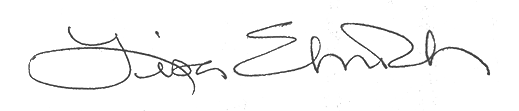
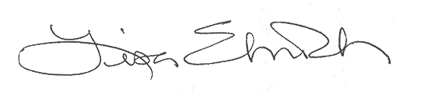
remove max ht 100v

Changed region(s): [[0.0306, 0.1935, 0.9482, 0.8602], [0.4894, 0.1935, 0.5812, 0.2796], [0.2753, 0.2796, 0.3059, 0.3656]]

diff --git a/LisaEhrich/LisaEhrich/css/style.css b/LisaEhrich/LisaEhrich/css/style.css
@@ -433,13 +433,20 @@ input::-webkit-input-placeholder, input::-moz-placeholder, input:-moz-placeholde
 
 .preload.version2 {
     background: #8a868c;
-    /* background: rgba(77, 77, 78, 0.3);*/
+    background: #989aaa;
 }
 .preload.version2 .load-wave { position: absolute; width: 0%; height: 10px; top: 50%; left: 0px; animation: wave .7s infinite alternate ease-in-out; }
 /*.preload.version2 .load-wave:before { content: ''; position: absolute; left: 0px; bottom: 0px; height: 8px; width: 100%; background: url(../img/word_wave.png) repeat-x; }
 */
-@keyframes wave { 0% { width: 0; }
-  100% { width: 100%; } }
+@keyframes wave {
+    0% {
+        width: 0;
+    }
+
+    100% {
+        width: 100%;
+    }
+}
 @-webkit-keyframes wave { 0% { width: 0; }
   100% { width: 100%; } }
 @-moz-keyframes wave { 0% { width: 0; }
@@ -629,7 +636,7 @@ input, textarea { font-family: 'Montserrat', sans-serif; }
     height: 100vmin;
     min-height: 650px;
     overflow-y: auto;
-     max-height: 100vh;/*tosca*/
+     /*max-height: 100vh;tosca*/
 }
 .content-bg { padding: 160px 0px 180px; position: relative; }
 
@@ -3737,7 +3744,7 @@ body.overflowh { overflow: hidden; }
 .full-about-item p { font-size: 20px; line-height: 32px; font-weight: 400; color: #fffefe; padding-bottom: 30px; font-family: 'Quicksand', sans-serif }
 
 .signature { position: relative; float: right; }
-.signature img { margin-bottom: 15px; }
+.signature img { margin-bottom: 25px; }
 .signature span { display: block; font-size: 16px; line-height: 16px; text-transform: uppercase; color: #fffefe; }
 
 .full-contact-item { position: relative; text-align: center; }
@@ -3782,8 +3789,8 @@ body.overflowh { overflow: hidden; }
   .right-navigation .copy { bottom: 30px; }
   .full-project-item .image { height: 350px; }
   .open-all-project { top: 15px; }
-  .full-about-item p { font-size: 22px; line-height: 32px; padding-bottom: 20px; }
-  .signature img { max-width: 150px; }
+  .full-about-item p { font-size: 18px; line-height: 26px; padding-bottom: 18px; }
+  .signature img { max-width: 300px; }
   .full-contact-item .title-h2 { font-size: 60px; line-height: 70px; }
   .full-contact-item p { font-size: 20px; line-height: 32px; }
   .contact-footer-link { bottom: 30px; } }

diff --git a/LisaEhrich/LisaEhrich/index.html b/LisaEhrich/LisaEhrich/index.html
@@ -16,11 +16,11 @@
   
 <body class="onepagev6">
     <div class="preload version2">
-    
+        <div class="load-wave"></div>
     </div>
     <header class="header right-style">
         <a href="index.html" class="logo-left">
- <img src="img/LE/LisaEhrich-01.png" alt="Lisa Ehrich ~ Ceramic Artist logo" /></a>
+ <img src="img/LE/LisaEhrich.png" alt="Lisa Ehrich ~ Ceramic Artist logo" /></a>
         <div class="burger vertical-align"><i></i></div>
         <div class="header-wrap">
             <nav class="right-navigation">
@@ -402,7 +402,7 @@
                 I move from throwing to handbuilding seeking the process that best actualizes the ideas that emerge.  My surfaces are intended to reveal the form, to feel like the skin of an object, appearing as a natural consequence of its being. I focus on atmospheric firings to achieve the desired effects and often use sandblasting a final step. A medley of other materials is sometimes employed to complete a concept which results in a visually poetic combination.
                 <div class="signature">
                     <img src="img/LE/signature-sm.png" alt="Lisa Ehrich signature">
-                    <span>Lisa Ehrich</span>
+                    
                 </div>
             </p>
         </div>
